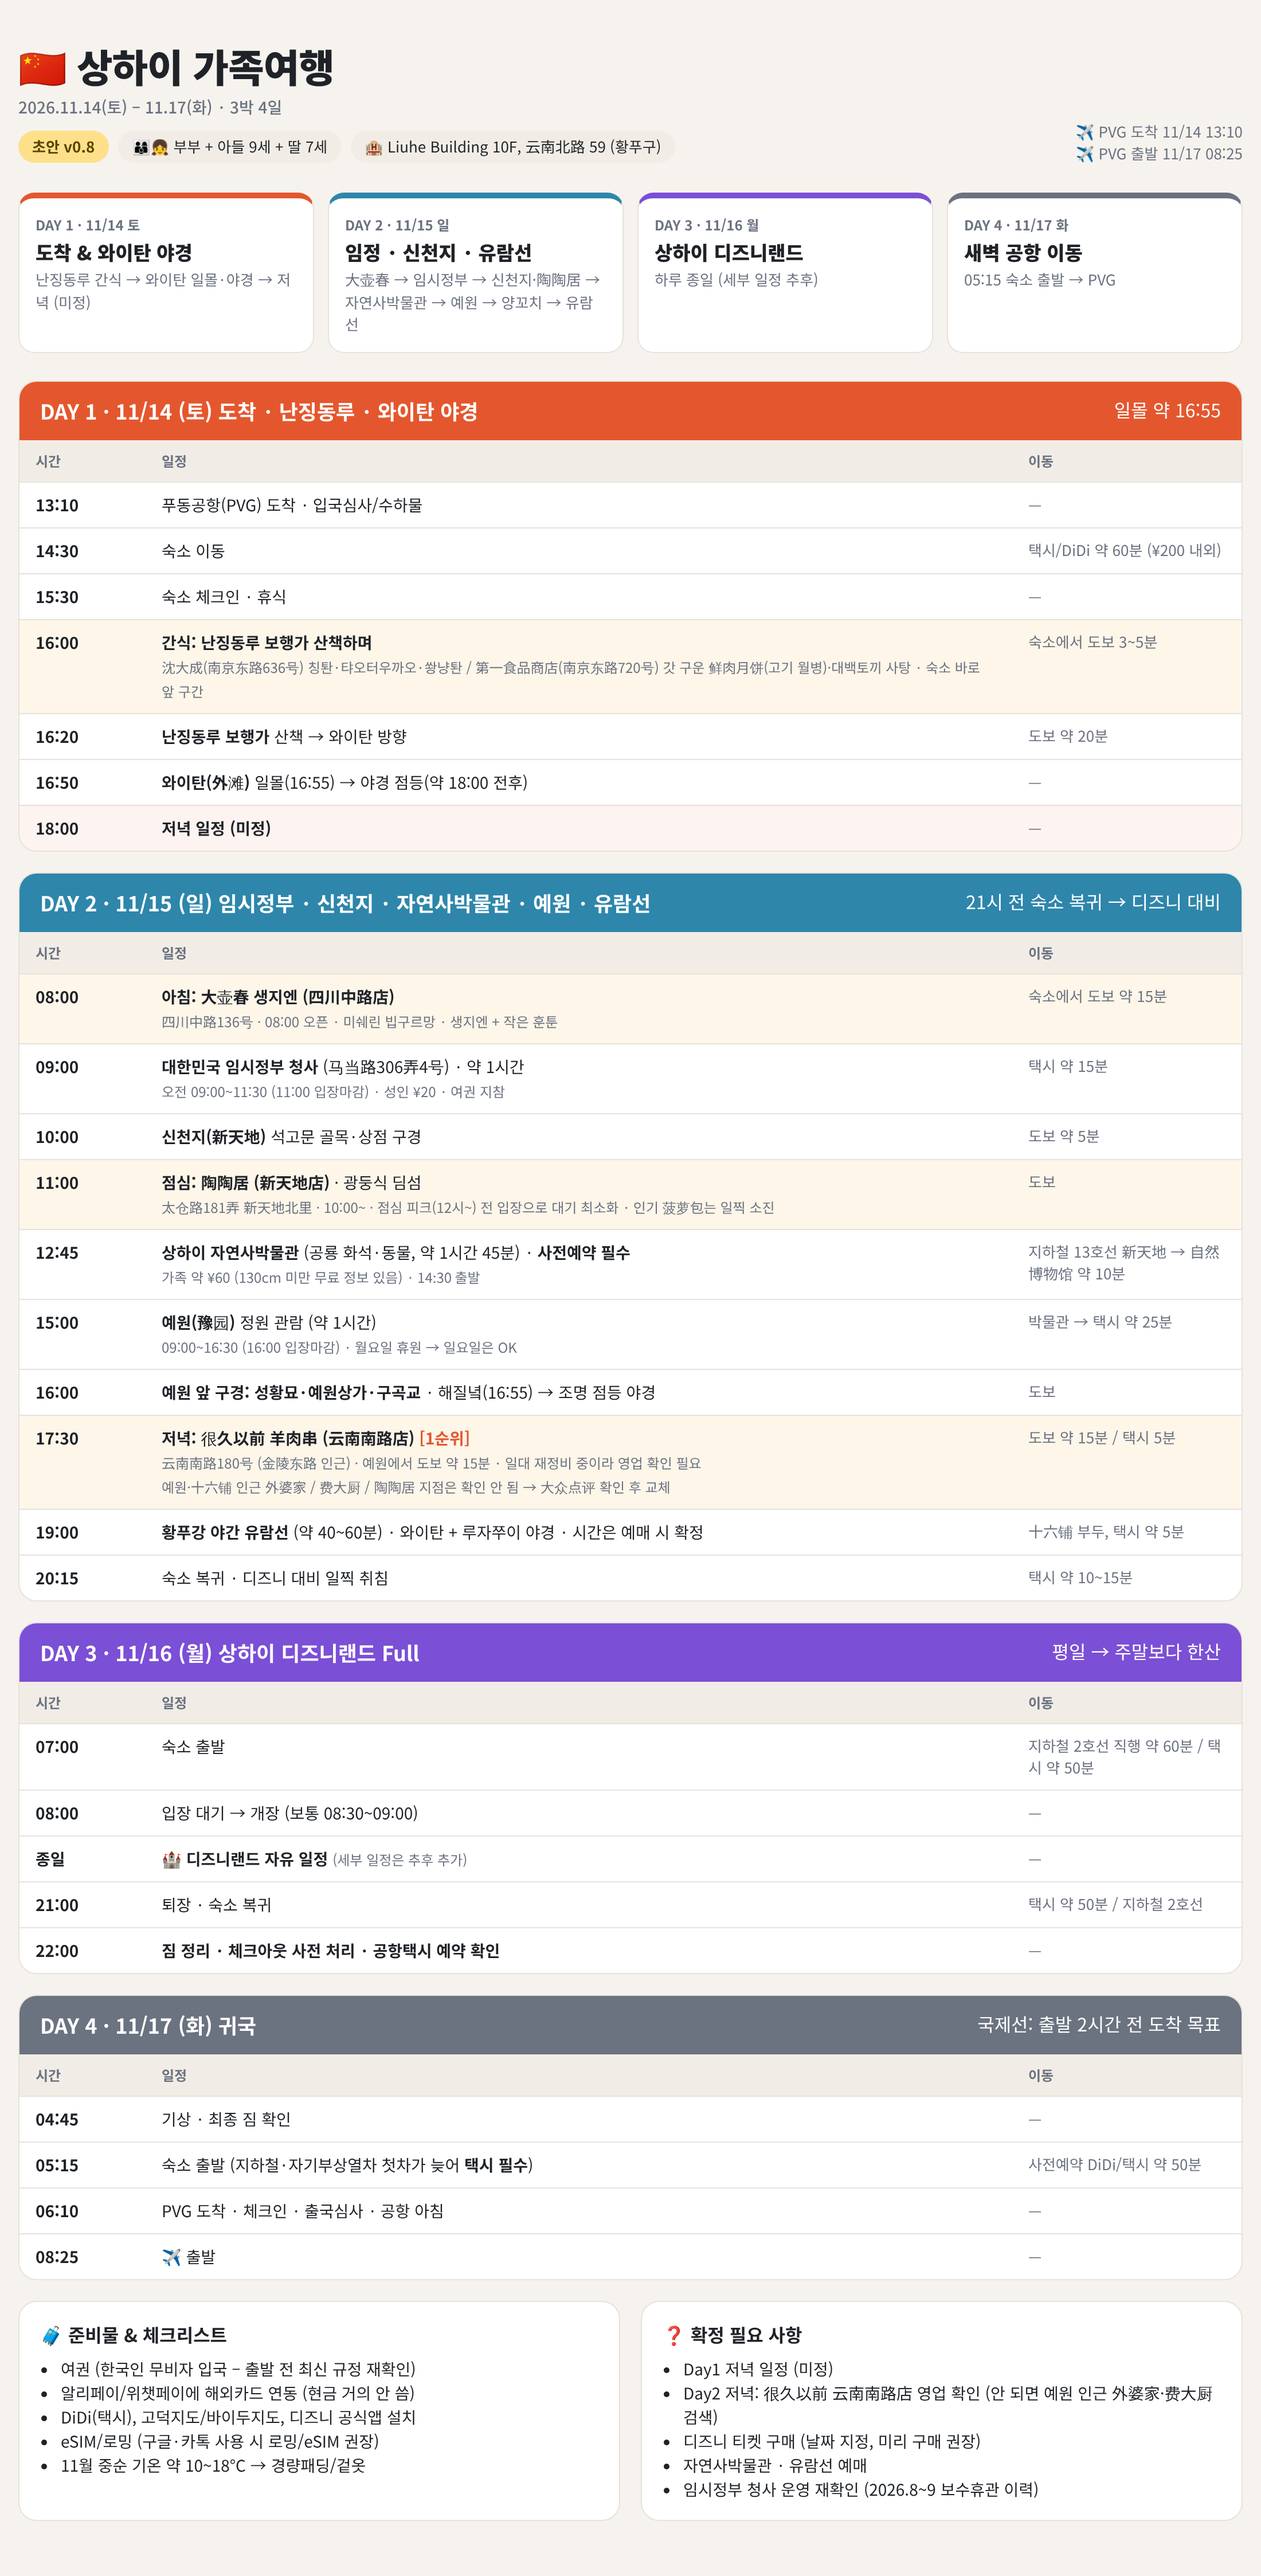
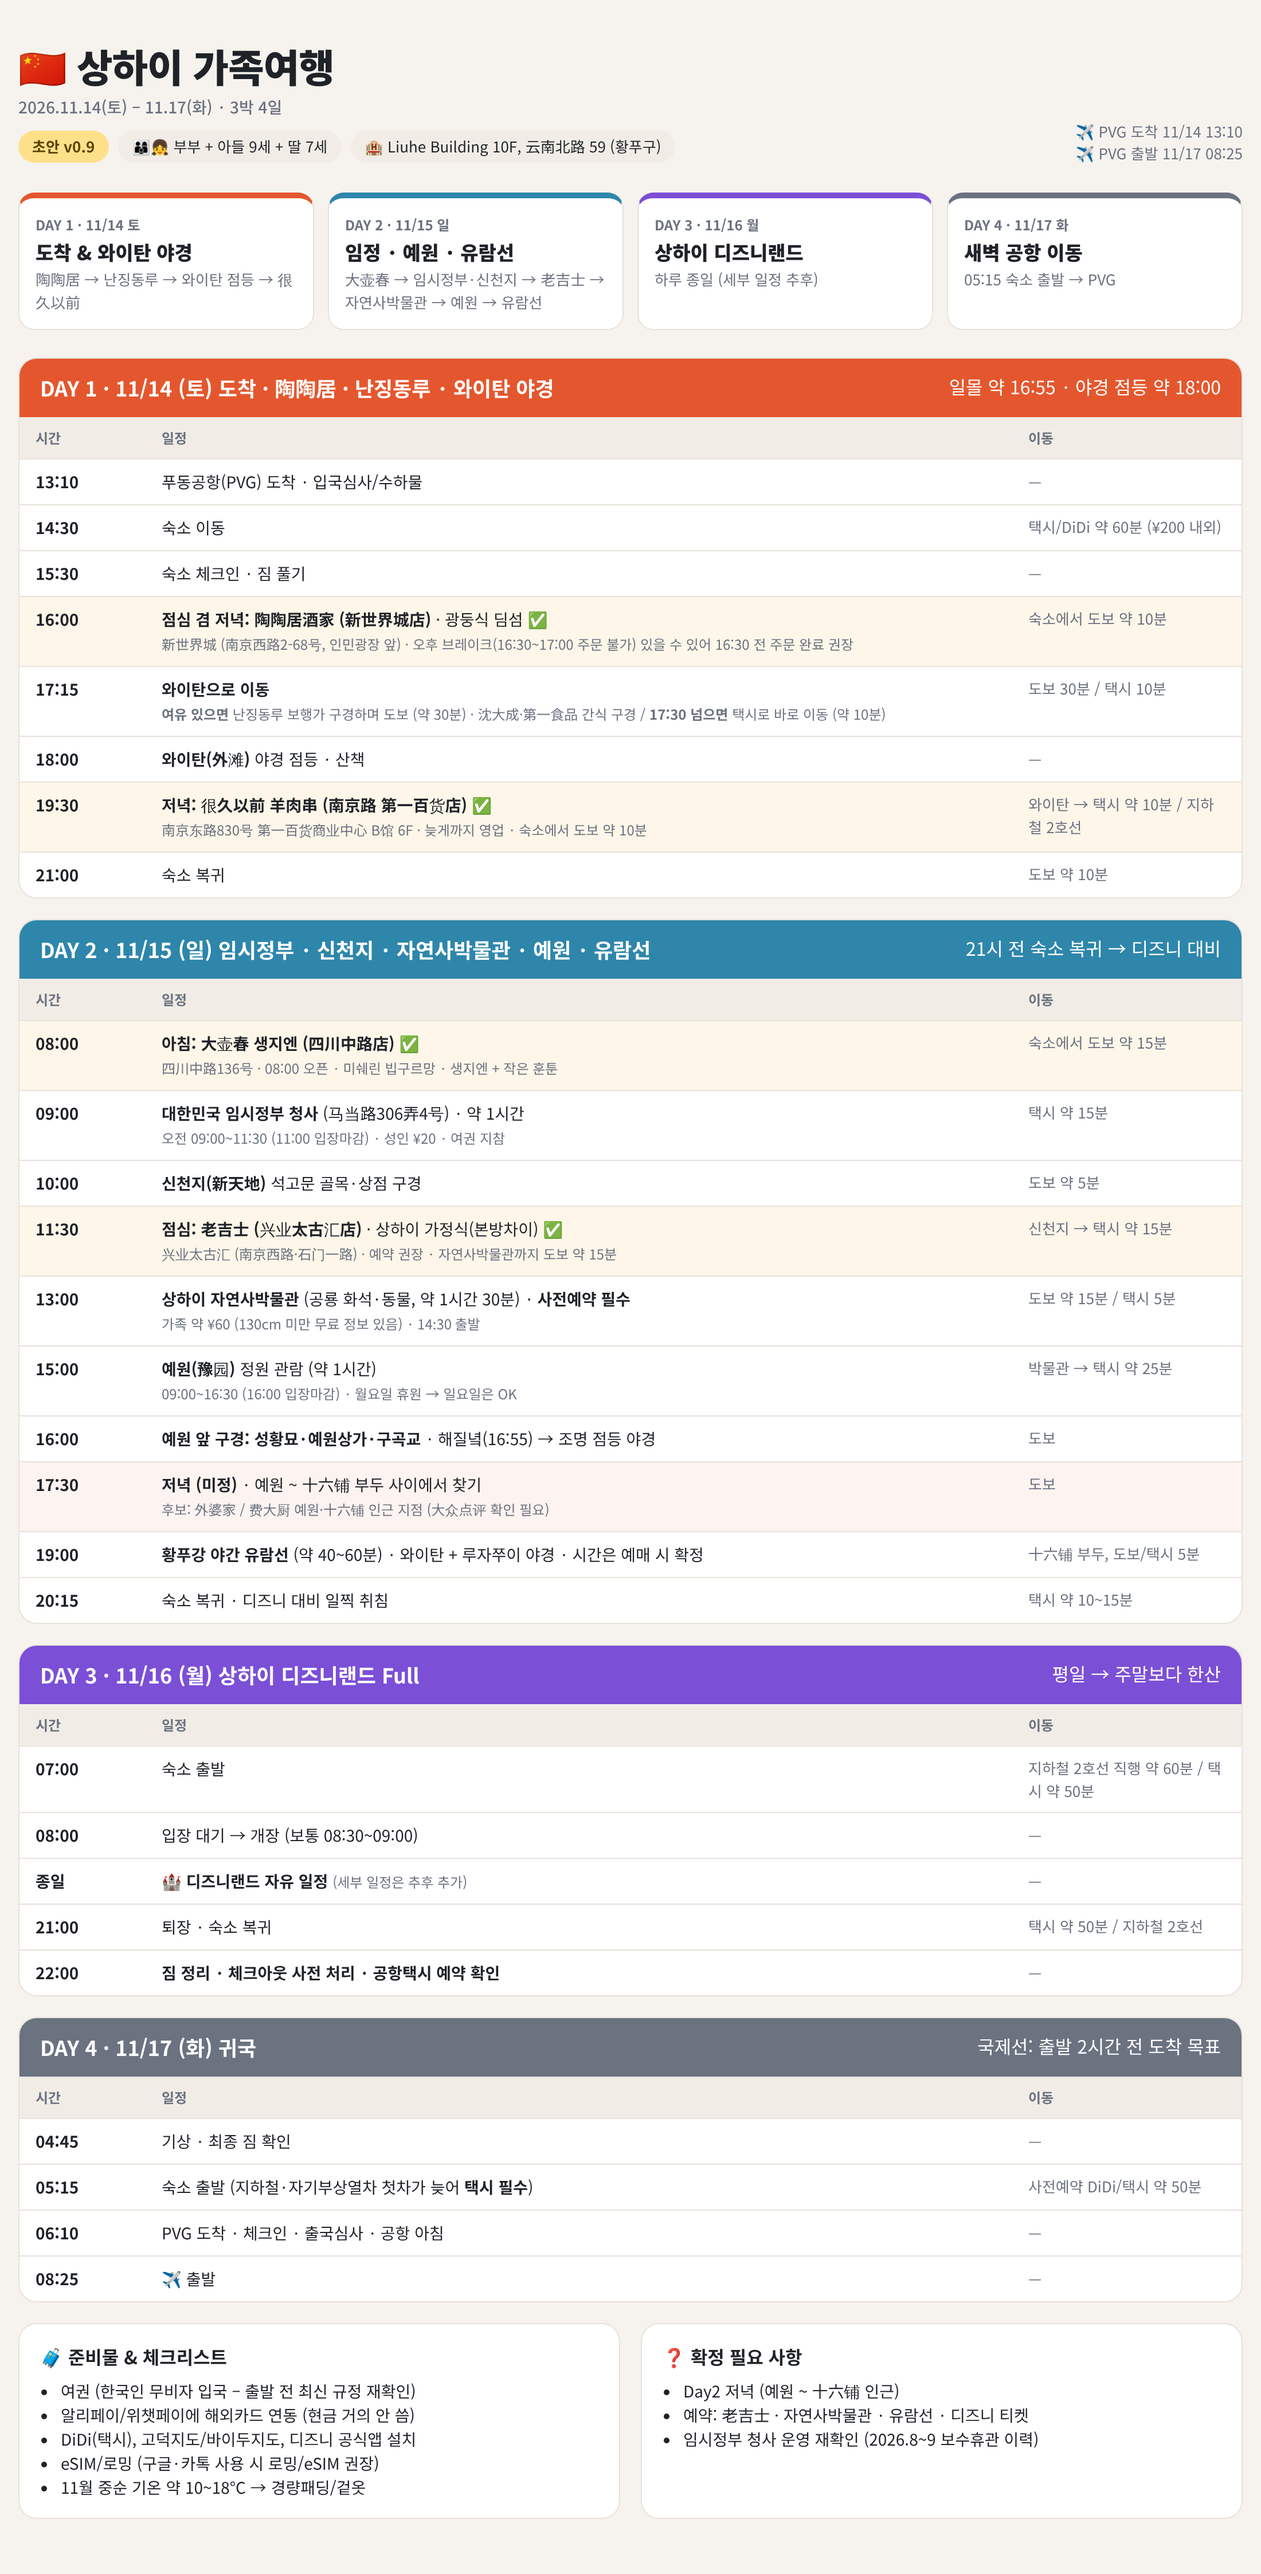
Itinerary v0.9: confirm restaurants, remove duplicate restaurants
Claude-Session: https://claude.ai/code/session_01FtyK4HJW4ZkDiHshS9yHtF

Changed region(s): [[0.0, 0.0935, 0.9891, 0.9662], [0.5255, 0.9038, 0.8036, 0.9662]]

diff --git a/index.html b/index.html
@@ -69,7 +69,7 @@
     <div>
       <h1>🇨🇳 상하이 가족여행 <small>2026.11.14(토) – 11.17(화) · 3박 4일</small></h1>
       <div style="margin-top:8px">
-        <span class="badge draft">초안 v0.8</span>
+        <span class="badge draft">초안 v0.9</span>
         <span class="badge">👨👩👦👧 부부 + 아들 9세 + 딸 7세</span>
         <span class="badge">🏨 Liuhe Building 10F, 云南北路 59 (황푸구)</span>
       </div>
@@ -80,23 +80,24 @@
   </header>
 
   <section class="summary">
-    <div class="sum" style="--c:var(--d1)"><div class="d">DAY 1 · 11/14 토</div><div class="t">도착 &amp; 와이탄 야경</div><div class="s">난징동루 간식 → 와이탄 일몰·야경 → 저녁 (미정)</div></div>
-    <div class="sum" style="--c:var(--d2)"><div class="d">DAY 2 · 11/15 일</div><div class="t">임정 · 신천지 · 유람선</div><div class="s">大壶春 → 임시정부 → 신천지·陶陶居 → 자연사박물관 → 예원 → 양꼬치 → 유람선</div></div>
+    <div class="sum" style="--c:var(--d1)"><div class="d">DAY 1 · 11/14 토</div><div class="t">도착 &amp; 와이탄 야경</div><div class="s">陶陶居 → 난징동루 → 와이탄 점등 → 很久以前</div></div>
+    <div class="sum" style="--c:var(--d2)"><div class="d">DAY 2 · 11/15 일</div><div class="t">임정 · 예원 · 유람선</div><div class="s">大壶春 → 임시정부·신천지 → 老吉士 → 자연사박물관 → 예원 → 유람선</div></div>
     <div class="sum" style="--c:var(--d3)"><div class="d">DAY 3 · 11/16 월</div><div class="t">상하이 디즈니랜드</div><div class="s">하루 종일 (세부 일정 추후)</div></div>
     <div class="sum" style="--c:var(--d4)"><div class="d">DAY 4 · 11/17 화</div><div class="t">새벽 공항 이동</div><div class="s">05:15 숙소 출발 → PVG</div></div>
   </section>
 
   <div class="day" style="--c:var(--d1)">
-    <div class="dayhead"><b>DAY 1 · 11/14 (토) 도착 · 난징동루 · 와이탄 야경</b><span>일몰 약 16:55</span></div>
+    <div class="dayhead"><b>DAY 1 · 11/14 (토) 도착 · 陶陶居 · 난징동루 · 와이탄 야경</b><span>일몰 약 16:55 · 야경 점등 약 18:00</span></div>
     <table>
       <tr><th>시간</th><th>일정</th><th>이동</th></tr>
       <tr><td class="time">13:10</td><td>푸동공항(PVG) 도착 · 입국심사/수하물</td><td class="move">—</td></tr>
       <tr><td class="time">14:30</td><td>숙소 이동</td><td class="move">택시/DiDi 약 60분 (¥200 내외)</td></tr>
-      <tr><td class="time">15:30</td><td>숙소 체크인 · 휴식</td><td class="move">—</td></tr>
-      <tr class="food"><td class="time">16:00</td><td><b>간식: 난징동루 보행가 산책하며</b><br><span class="sub">沈大成(南京东路636号) 칭퇀·탸오터우까오·쐉냥퇀 / 第一食品商店(南京东路720号) 갓 구운 鲜肉月饼(고기 월병)·대백토끼 사탕 · 숙소 바로 앞 구간</span></td><td class="move">숙소에서 도보 3~5분</td></tr>
-      <tr><td class="time">16:20</td><td><b>난징동루 보행가</b> 산책 → 와이탄 방향</td><td class="move">도보 약 20분</td></tr>
-      <tr><td class="time">16:50</td><td><b>와이탄(外滩)</b> 일몰(16:55) → 야경 점등(약 18:00 전후)</td><td class="move">—</td></tr>
-      <tr class="tbd"><td class="time">18:00</td><td><b>저녁 일정 (미정)</b></td><td class="move">—</td></tr>
+      <tr><td class="time">15:30</td><td>숙소 체크인 · 짐 풀기</td><td class="move">—</td></tr>
+      <tr class="food"><td class="time">16:00</td><td><b>점심 겸 저녁: 陶陶居酒家 (新世界城店)</b> · 광둥식 딤섬 ✅<br><span class="sub">新世界城 (南京西路2-68号, 인민광장 앞) · 오후 브레이크(16:30~17:00 주문 불가) 있을 수 있어 16:30 전 주문 완료 권장</span></td><td class="move">숙소에서 도보 약 10분</td></tr>
+      <tr><td class="time">17:15</td><td><b>와이탄으로 이동</b><br><span class="sub"><b>여유 있으면</b> 난징동루 보행가 구경하며 도보 (약 30분) · 沈大成·第一食品 간식 구경 / <b>17:30 넘으면</b> 택시로 바로 이동 (약 10분)</span></td><td class="move">도보 30분 / 택시 10분</td></tr>
+      <tr><td class="time">18:00</td><td><b>와이탄(外滩)</b> 야경 점등 · 산책</td><td class="move">—</td></tr>
+      <tr class="food"><td class="time">19:30</td><td><b>저녁: 很久以前 羊肉串 (南京路 第一百货店)</b> ✅<br><span class="sub">南京东路830号 第一百货商业中心 B馆 6F · 늦게까지 영업 · 숙소에서 도보 약 10분</span></td><td class="move">와이탄 → 택시 약 10분 / 지하철 2호선</td></tr>
+      <tr><td class="time">21:00</td><td>숙소 복귀</td><td class="move">도보 약 10분</td></tr>
     </table>
   </div>
 
@@ -104,15 +105,15 @@
     <div class="dayhead"><b>DAY 2 · 11/15 (일) 임시정부 · 신천지 · 자연사박물관 · 예원 · 유람선</b><span>21시 전 숙소 복귀 → 디즈니 대비</span></div>
     <table>
       <tr><th>시간</th><th>일정</th><th>이동</th></tr>
-      <tr class="food"><td class="time">08:00</td><td><b>아침: 大壶春 생지엔 (四川中路店)</b><br><span class="sub">四川中路136号 · 08:00 오픈 · 미쉐린 빕구르망 · 생지엔 + 작은 훈툰</span></td><td class="move">숙소에서 도보 약 15분</td></tr>
+      <tr class="food"><td class="time">08:00</td><td><b>아침: 大壶春 생지엔 (四川中路店)</b> ✅<br><span class="sub">四川中路136号 · 08:00 오픈 · 미쉐린 빕구르망 · 생지엔 + 작은 훈툰</span></td><td class="move">숙소에서 도보 약 15분</td></tr>
       <tr><td class="time">09:00</td><td><b>대한민국 임시정부 청사</b> (马当路306弄4号) · 약 1시간<br><span class="sub">오전 09:00~11:30 (11:00 입장마감) · 성인 ¥20 · 여권 지참</span></td><td class="move">택시 약 15분</td></tr>
       <tr><td class="time">10:00</td><td><b>신천지(新天地)</b> 석고문 골목·상점 구경</td><td class="move">도보 약 5분</td></tr>
-      <tr class="food"><td class="time">11:00</td><td><b>점심: 陶陶居 (新天地店)</b> · 광둥식 딤섬<br><span class="sub">太仓路181弄 新天地北里 · 10:00~ · 점심 피크(12시~) 전 입장으로 대기 최소화 · 인기 菠萝包는 일찍 소진</span></td><td class="move">도보</td></tr>
-      <tr><td class="time">12:45</td><td><b>상하이 자연사박물관</b> (공룡 화석·동물, 약 1시간 45분) · <b>사전예약 필수</b><br><span class="sub">가족 약 ¥60 (130cm 미만 무료 정보 있음) · 14:30 출발</span></td><td class="move">지하철 13호선 新天地 → 自然博物馆 약 10분</td></tr>
+      <tr class="food"><td class="time">11:30</td><td><b>점심: 老吉士 (兴业太古汇店)</b> · 상하이 가정식(본방차이) ✅<br><span class="sub">兴业太古汇 (南京西路·石门一路) · 예약 권장 · 자연사박물관까지 도보 약 15분</span></td><td class="move">신천지 → 택시 약 15분</td></tr>
+      <tr><td class="time">13:00</td><td><b>상하이 자연사박물관</b> (공룡 화석·동물, 약 1시간 30분) · <b>사전예약 필수</b><br><span class="sub">가족 약 ¥60 (130cm 미만 무료 정보 있음) · 14:30 출발</span></td><td class="move">도보 약 15분 / 택시 5분</td></tr>
       <tr><td class="time">15:00</td><td><b>예원(豫园)</b> 정원 관람 (약 1시간)<br><span class="sub">09:00~16:30 (16:00 입장마감) · 월요일 휴원 → 일요일은 OK</span></td><td class="move">박물관 → 택시 약 25분</td></tr>
       <tr><td class="time">16:00</td><td><b>예원 앞 구경: 성황묘·예원상가·구곡교</b> · 해질녘(16:55) → 조명 점등 야경</td><td class="move">도보</td></tr>
-      <tr class="food"><td class="time">17:30</td><td><b>저녁: 很久以前 羊肉串 (云南南路店)</b> <span class="q">[1순위]</span><br><span class="sub">云南南路180号 (金陵东路 인근) · 예원에서 도보 약 15분 · 일대 재정비 중이라 영업 확인 필요<br>예원·十六铺 인근 外婆家 / 费大厨 / 陶陶居 지점은 확인 안 됨 → 大众点评 확인 후 교체</span></td><td class="move">도보 약 15분 / 택시 5분</td></tr>
-      <tr><td class="time">19:00</td><td><b>황푸강 야간 유람선</b> (약 40~60분) · 와이탄 + 루자쭈이 야경 · 시간은 예매 시 확정</td><td class="move">十六铺 부두, 택시 약 5분</td></tr>
+      <tr class="tbd"><td class="time">17:30</td><td><b>저녁 (미정)</b> · 예원 ~ 十六铺 부두 사이에서 찾기<br><span class="sub">후보: 外婆家 / 费大厨 예원·十六铺 인근 지점 (大众点评 확인 필요)</span></td><td class="move">도보</td></tr>
+      <tr><td class="time">19:00</td><td><b>황푸강 야간 유람선</b> (약 40~60분) · 와이탄 + 루자쭈이 야경 · 시간은 예매 시 확정</td><td class="move">十六铺 부두, 도보/택시 5분</td></tr>
       <tr><td class="time">20:15</td><td>숙소 복귀 · 디즈니 대비 일찍 취침</td><td class="move">택시 약 10~15분</td></tr>
     </table>
   </div>
@@ -154,10 +155,8 @@
     <div class="note">
       <h3>❓ 확정 필요 사항</h3>
       <ul>
-        <li>Day1 저녁 일정 (미정)</li>
-        <li>Day2 저녁: 很久以前 云南南路店 영업 확인 (안 되면 예원 인근 外婆家·费大厨 검색)</li>
-        <li>디즈니 티켓 구매 (날짜 지정, 미리 구매 권장)</li>
-        <li>자연사박물관 · 유람선 예매</li>
+        <li>Day2 저녁 (예원 ~ 十六铺 인근)</li>
+        <li>예약: 老吉士 · 자연사박물관 · 유람선 · 디즈니 티켓</li>
         <li>임시정부 청사 운영 재확인 (2026.8~9 보수휴관 이력)</li>
       </ul>
     </div>

diff --git a/README.md b/README.md
@@ -1,4 +1,4 @@
-# 상하이 가족여행 (2026.11.14 ~ 11.17, 3박 4일) — 초안 v0.8
+# 상하이 가족여행 (2026.11.14 ~ 11.17, 3박 4일) — 초안 v0.9
 
 - 인원: 부부 + 아들 9세 + 딸 7세
 - 숙소: Liuhe Building 10F, 59 Yunnan North Rd, 황푸구
@@ -8,8 +8,8 @@
 
 | 일자 | 테마 | 주요 일정 |
 |---|---|---|
-| Day1 11/14(토) | 도착 & 야경 | 공항→숙소, 난징동루 간식(沈大成·第一食品), 와이탄 일몰·야경, 저녁(미정) |
-| Day2 11/15(일) | 임정·신천지·유람선 | 아침 大壶春, 임시정부 청사, 신천지, 점심 陶陶居(新天地店), 자연사박물관, 예원·성황묘, 저녁 很久以前 양꼬치, 황푸강 유람선 |
+| Day1 11/14(토) | 도착 & 야경 | 공항→숙소, 점심겸저녁 陶陶居(新世界城店), 난징동루, 와이탄 점등, 저녁 很久以前(第一百货店) |
+| Day2 11/15(일) | 임정·예원·유람선 | 아침 大壶春, 임시정부 청사, 신천지, 점심 老吉士(兴业太古汇店), 자연사박물관, 예원·성황묘, 저녁(미정), 황푸강 유람선 |
 | Day3 11/16(월) | 디즈니랜드 | 종일 자유 (세부 추후), 귀가 후 짐정리 |
 | Day4 11/17(화) | 귀국 | 05:15 택시 출발 → PVG 08:25 |
 
